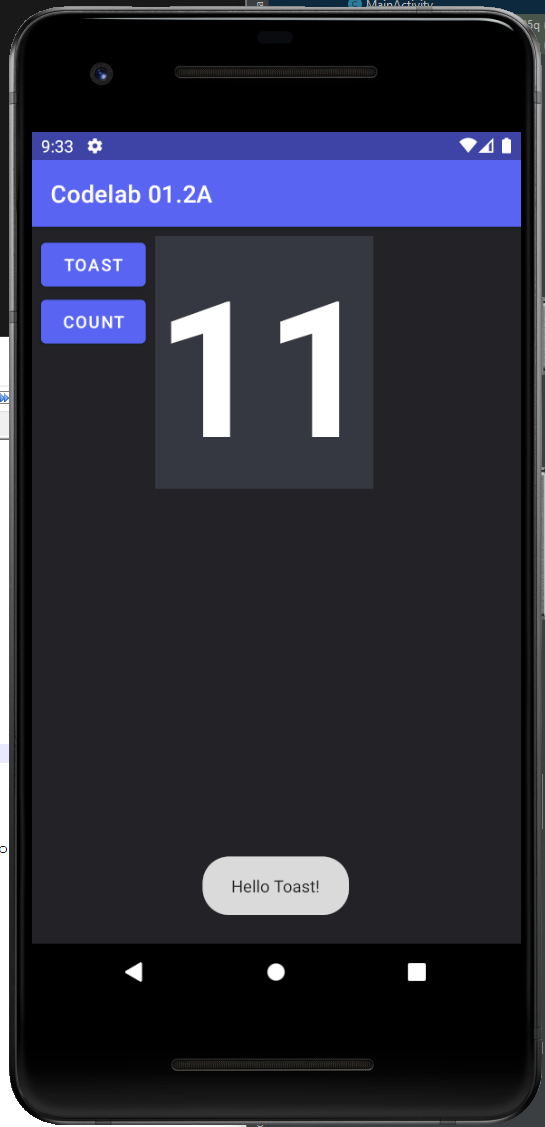
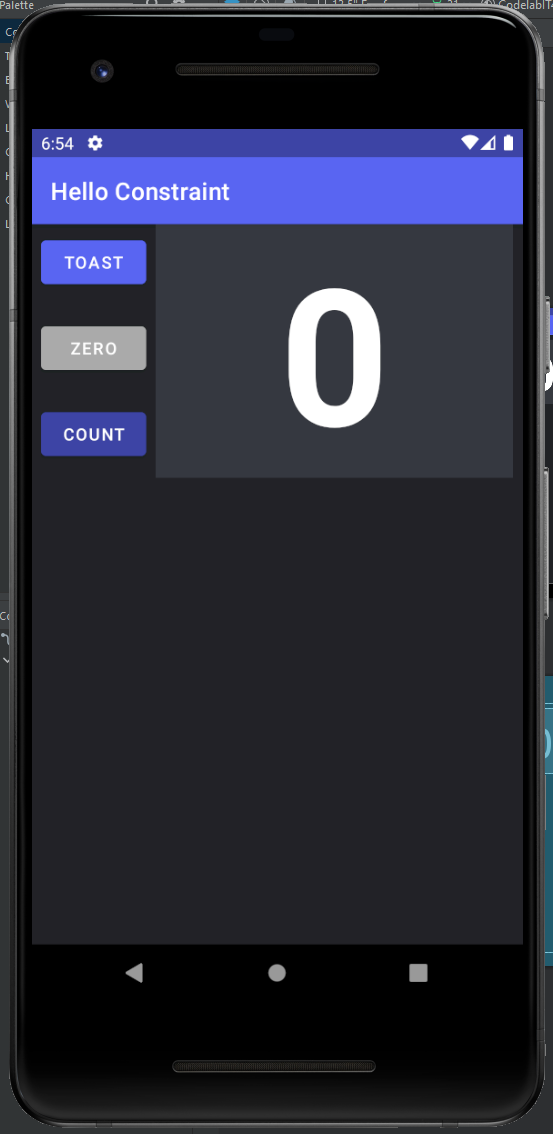
Codelab 01.2B

Changed region(s): [[0.0, 0.0, 1.0, 1.0]]

diff --git a/app/src/main/java/com/thainp20187197/codelabit4785q/MainActivity.java b/app/src/main/java/com/thainp20187197/codelabit4785q/MainActivity.java
@@ -1,21 +1,27 @@
 package com.thainp20187197.codelabit4785q;
 
 import androidx.appcompat.app.AppCompatActivity;
+import androidx.core.content.ContextCompat;
 
 import android.os.Bundle;
 import android.view.View;
+import android.widget.Button;
 import android.widget.TextView;
 import android.widget.Toast;
 
 public class MainActivity extends AppCompatActivity {
     private int mCount = 0;
     private TextView mShowCount;
+    private Button button_zero;
+    private Button button_count;
 
     @Override
     protected void onCreate(Bundle savedInstanceState) {
         super.onCreate(savedInstanceState);
         setContentView(R.layout.activity_main);
         mShowCount = findViewById(R.id.show_count);
+        button_zero = findViewById(R.id.button_zero);
+        button_count = findViewById(R.id.button_count);
     }
 
     public void showToast(View view) {
@@ -26,6 +32,24 @@ public class MainActivity extends AppCompatActivity {
     public void countUp(View view) {
         mCount++;
         if (mShowCount != null)
+        {
             mShowCount.setText(Integer.toString(mCount));
+            button_zero.setBackgroundColor(ContextCompat.getColor(this, R.color.colorPrimary));
+            if (mCount % 2 == 0)
+            {
+                button_count.setBackgroundColor(ContextCompat.getColor(this, R.color.colorPrimaryVariant));
+            }
+            else {
+                button_count.setBackgroundColor(ContextCompat.getColor(this, R.color.green));
+            }
+        }
+    }
+
+    public void countZero(View view) {
+        mCount = 0;
+        if (mShowCount != null) {
+            mShowCount.setText(Integer.toString(mCount));
+            button_zero.setBackgroundColor(ContextCompat.getColor(this, R.color.gray));
+        }
     }
 }
